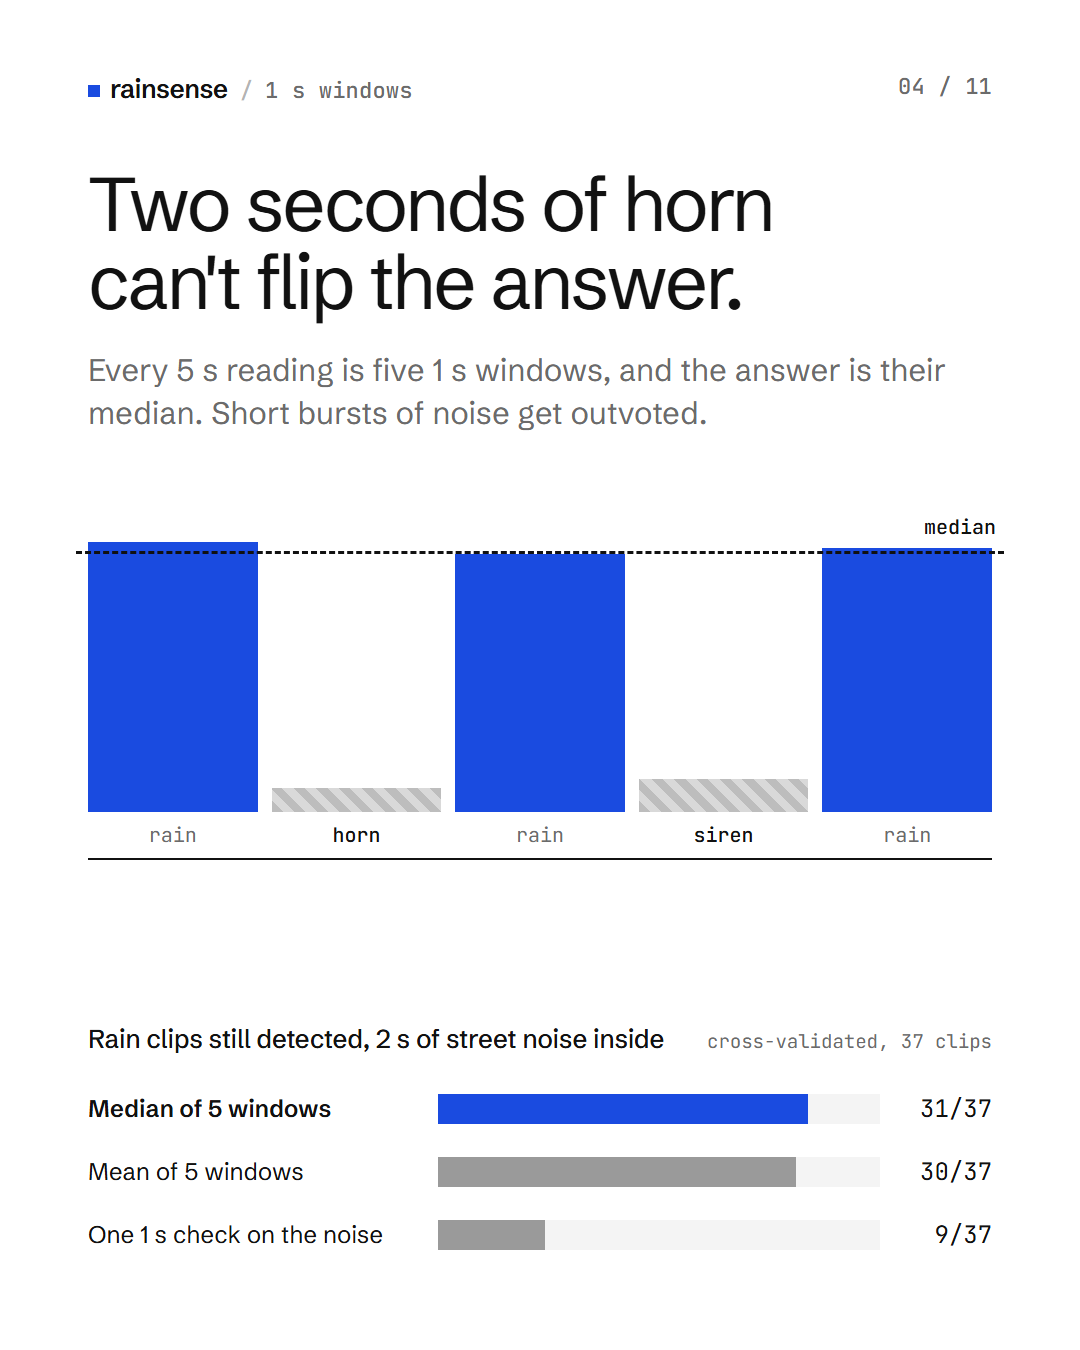
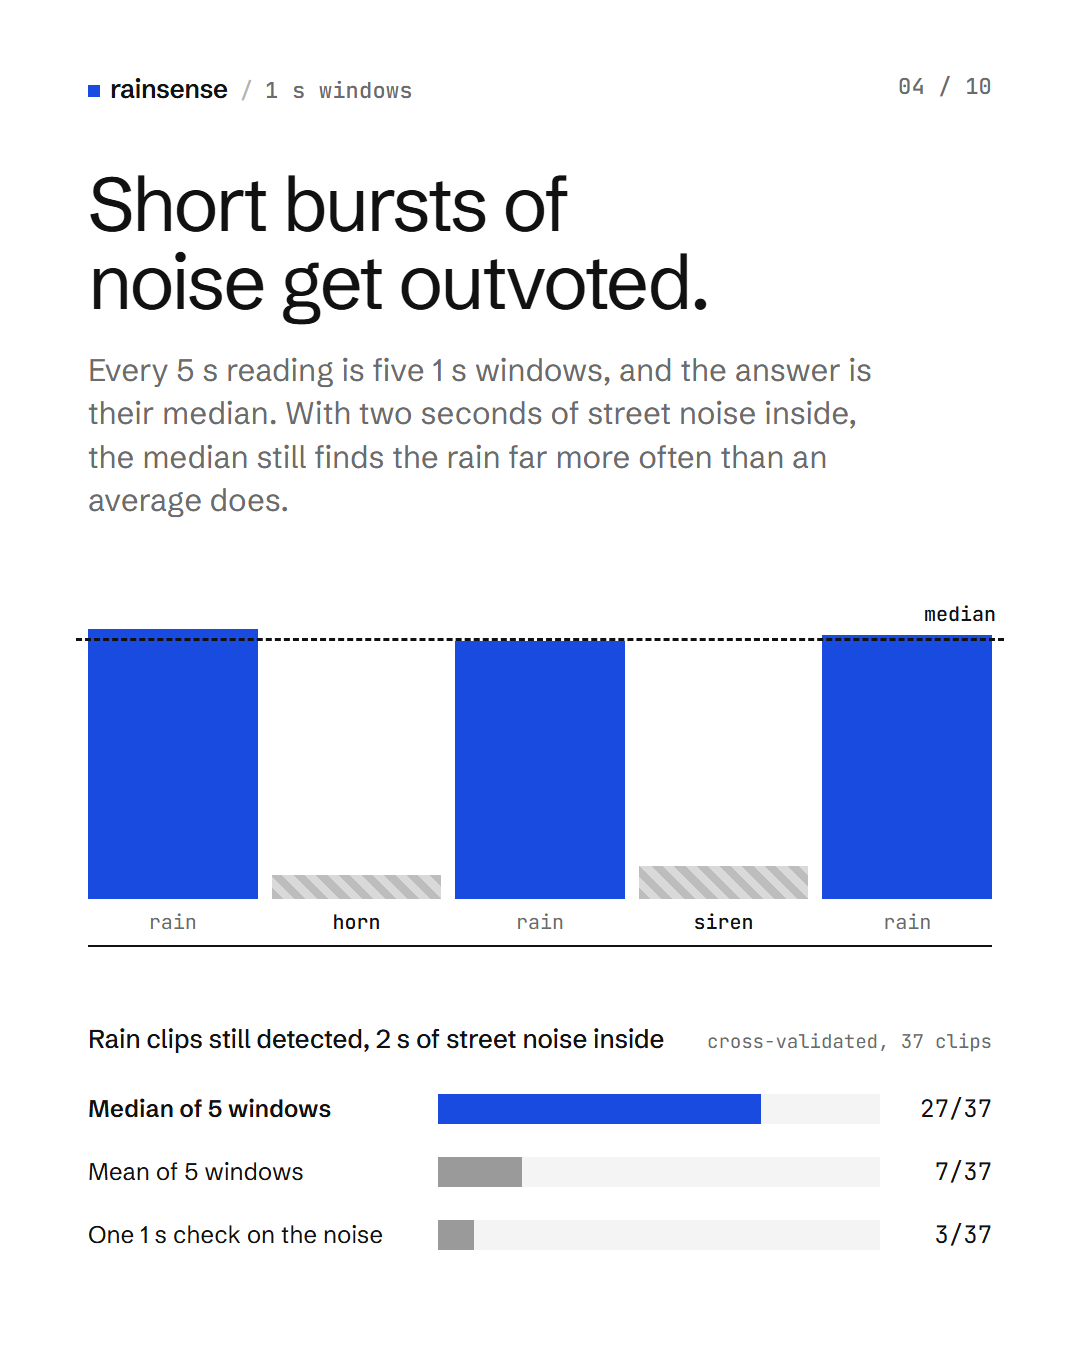
Rain threshold, package rename, README and carousel polish
- train.py picks the shipped rain threshold from cross-validated clip scores: the lowest that keeps
  false alarms at or below 10% (0.70). Stored in model.json; predict.label (Python) and pickLabel (Kotlin)
  apply the same rule. Operating points at other thresholds are in metrics.json.
- Kotlin package com.example.rainsense -> io.github.akshayjg.rainsense (demo app: .demo)
- README: CI and license badges, overview diagram, threshold, new numbers
- Carousel: 10 slides; weather slide removed, closing roadmap slide with repo link, clearer copy

diff --git a/android/rainsense/src/main/java/io/github/akshayjg/rainsense/RainClassifier.kt b/android/rainsense/src/main/java/io/github/akshayjg/rainsense/RainClassifier.kt
@@ -1,4 +1,4 @@
-package com.example.rainsense
+package io.github.akshayjg.rainsense
 
 import android.content.Context
 import org.json.JSONArray
@@ -12,6 +12,7 @@ class RainClassifier(context: Context) {
     private val scale: DoubleArray
     private val coef: Array<DoubleArray>
     private val intercept: DoubleArray
+    private val rainThreshold: Double
 
     init {
         val text = context.assets.open("model.json").bufferedReader().use { it.readText() }
@@ -22,6 +23,7 @@ class RainClassifier(context: Context) {
         intercept = o.getJSONArray("intercept").toDoubles()
         val c = o.getJSONArray("coef")
         coef = Array(c.length()) { c.getJSONArray(it).toDoubles() }
+        rainThreshold = o.optDouble("rain_threshold", 0.5)  // older models: plain argmax
     }
 
     /** Scores each 1 s window and takes the per-class median, so one loud second can't flip the result. Same as predict.predict_clip. */
@@ -33,7 +35,7 @@ class RainClassifier(context: Context) {
         val med = DoubleArray(classes.size) { c -> median(perWindow.map { it[c] }) }
         val total = med.sum()
         val probs = classes.indices.associate { classes[it] to med[it] / total }
-        return probs.maxByOrNull { it.value }!!.key to probs
+        return pickLabel(probs, rainThreshold) to probs
     }
 
     private fun softmax(f: DoubleArray): DoubleArray {
@@ -54,4 +56,11 @@ class RainClassifier(context: Context) {
     }
 
     private fun JSONArray.toDoubles() = DoubleArray(length()) { getDouble(it) }
+}
+
+/** no_rain unless P(rain) = 1 - P(no_rain) reaches [threshold], then the likeliest rain class. Same rule as predict.label. */
+internal fun pickLabel(probs: Map<String, Double>, threshold: Double): String {
+    val noRain = probs["no_rain"] ?: return probs.maxByOrNull { it.value }!!.key
+    if (1 - noRain < threshold) return "no_rain"
+    return probs.filterKeys { it != "no_rain" }.maxByOrNull { it.value }!!.key
 }

diff --git a/android/app/src/main/java/io/github/akshayjg/rainsense/demo/MainActivity.kt b/android/app/src/main/java/io/github/akshayjg/rainsense/demo/MainActivity.kt
@@ -1,4 +1,4 @@
-package com.example.rainsense.demo
+package io.github.akshayjg.rainsense.demo
 
 import android.Manifest
 import android.content.Intent
@@ -18,11 +18,11 @@ import androidx.core.content.ContextCompat
 import androidx.lifecycle.Lifecycle
 import androidx.lifecycle.lifecycleScope
 import androidx.lifecycle.repeatOnLifecycle
-import com.example.rainsense.FeatureExtractor
-import com.example.rainsense.RainResult
-import com.example.rainsense.RainSense
-import com.example.rainsense.recordPcm
-import com.example.rainsense.writeWav
+import io.github.akshayjg.rainsense.FeatureExtractor
+import io.github.akshayjg.rainsense.RainResult
+import io.github.akshayjg.rainsense.RainSense
+import io.github.akshayjg.rainsense.recordPcm
+import io.github.akshayjg.rainsense.writeWav
 import kotlinx.coroutines.Dispatchers
 import kotlinx.coroutines.launch
 import kotlinx.coroutines.withContext

diff --git a/diagram/carousel/src/slides.css b/diagram/carousel/src/slides.css
@@ -193,6 +193,7 @@ h2 { font-size: 76px; line-height: 1.02; letter-spacing: -.038em; margin-top: 64
 .next { list-style: none; counter-reset: n; margin-top: 18px; }
 .next li { counter-increment: n; font: 400 32px/1.3 var(--font-display); letter-spacing: -.015em; padding: 18px 0; border-top: 1px solid var(--p-inv-line); display: grid; grid-template-columns: 64px 1fr; }
 .next li::before { content: counter(n, decimal-leading-zero); font: 400 20px/1.9 var(--font-mono); color: var(--p-accent-on-dark); }
+.cta { font-size: 34px; font-weight: 500; color: var(--p-accent-on-dark); margin-top: auto; padding-top: 40px; }
 .foot { font-size: 18px; color: var(--p-inv-muted); margin-top: 36px; }
 
 @page { size: 1080px 1350px; margin: 0; }

diff --git a/android/app/src/main/java/io/github/akshayjg/rainsense/demo/RainService.kt b/android/app/src/main/java/io/github/akshayjg/rainsense/demo/RainService.kt
@@ -1,4 +1,4 @@
-package com.example.rainsense.demo
+package io.github.akshayjg.rainsense.demo
 
 import android.app.Notification
 import android.app.NotificationChannel
@@ -8,8 +8,8 @@ import android.content.Intent
 import android.content.pm.ServiceInfo
 import android.os.IBinder
 import androidx.core.app.ServiceCompat
-import com.example.rainsense.RainResult
-import com.example.rainsense.RainSense
+import io.github.akshayjg.rainsense.RainResult
+import io.github.akshayjg.rainsense.RainSense
 import kotlinx.coroutines.CoroutineScope
 import kotlinx.coroutines.Dispatchers
 import kotlinx.coroutines.Job

diff --git a/android/rainsense/src/test/java/io/github/akshayjg/rainsense/PickLabelTest.kt b/android/rainsense/src/test/java/io/github/akshayjg/rainsense/PickLabelTest.kt
@@ -1,0 +1,12 @@
+package io.github.akshayjg.rainsense
+
+import org.junit.Assert.assertEquals
+import org.junit.Test
+
+/** Same cases as test_label_uses_rain_threshold in tests/test_rainsense.py. */
+class PickLabelTest {
+    private val probs = mapOf("no_rain" to 0.35, "light" to 0.40, "heavy" to 0.25)  // P(rain) = 0.65
+
+    @Test fun rainWhenAboveThreshold() = assertEquals("light", pickLabel(probs, 0.6))
+    @Test fun noRainWhenBelowThreshold() = assertEquals("no_rain", pickLabel(probs, 0.7))
+}

diff --git a/android/rainsense/src/main/java/io/github/akshayjg/rainsense/Audio.kt b/android/rainsense/src/main/java/io/github/akshayjg/rainsense/Audio.kt
@@ -1,4 +1,4 @@
-package com.example.rainsense
+package io.github.akshayjg.rainsense
 
 import android.content.Context
 import android.media.AudioFormat

diff --git a/android/rainsense/src/main/java/io/github/akshayjg/rainsense/ContextGate.kt b/android/rainsense/src/main/java/io/github/akshayjg/rainsense/ContextGate.kt
@@ -1,4 +1,4 @@
-package com.example.rainsense
+package io.github.akshayjg.rainsense
 
 import android.Manifest
 import android.annotation.SuppressLint

diff --git a/android/rainsense/src/test/java/io/github/akshayjg/rainsense/ParityTest.kt b/android/rainsense/src/test/java/io/github/akshayjg/rainsense/ParityTest.kt
@@ -1,4 +1,4 @@
-package com.example.rainsense
+package io.github.akshayjg.rainsense
 
 import org.junit.Assert.assertEquals
 import org.junit.Test

diff --git a/android/rainsense/src/main/java/io/github/akshayjg/rainsense/RainSense.kt b/android/rainsense/src/main/java/io/github/akshayjg/rainsense/RainSense.kt
@@ -1,4 +1,4 @@
-package com.example.rainsense
+package io.github.akshayjg.rainsense
 
 import android.Manifest
 import android.content.Context

diff --git a/android/rainsense/src/main/java/io/github/akshayjg/rainsense/FeatureExtractor.kt b/android/rainsense/src/main/java/io/github/akshayjg/rainsense/FeatureExtractor.kt
@@ -1,4 +1,4 @@
-package com.example.rainsense
+package io.github.akshayjg.rainsense
 
 import kotlin.math.PI
 import kotlin.math.cos

diff --git a/diagram/carousel/src/build.py b/diagram/carousel/src/build.py
@@ -13,7 +13,7 @@ sys.path.insert(0, str(REPO))
 from rainsense.data import clips, load_mono_16k  # noqa: E402
 
 BRAND = "rainsense"
-N = 11
+N = 10
 metrics = json.loads((REPO / "models" / "metrics.json").read_text())
 parity = [float(x) for x in (REPO / "tests" / "fixtures" / "parity_features.txt").read_text().split()]
 DATA = SCRATCH / "data_esc50"
@@ -142,8 +142,8 @@ def hbar(label, v, n, strong=False):
 slides.append(f'''
 <section class="slide">
   {top("1 s windows", 4)}
-  <h2>Two seconds of horn can't flip the answer.</h2>
-  <p class="lede">Every 5 s reading is five 1 s windows, and the answer is their median. Short bursts of noise get outvoted.</p>
+  <h2>Short bursts of noise get outvoted.</h2>
+  <p class="lede">Every 5 s reading is five 1 s windows, and the answer is their median. With two seconds of street noise inside, the median still finds the rain far more often than an average does.</p>
   <div class="strip"><div class="median" style="bottom:{med * 300 + 46:.0f}px"><span class="mono">median</span></div>{strip}</div>
   <div class="chart">
     <div class="chart-h"><b>Rain clips still detected, 2 s of street noise inside</b><span class="mono">cross-validated, {ir["median"][1]} clips</span></div>
@@ -196,7 +196,7 @@ slides.append(f'''
 <section class="slide">
   {top("calibration", 6)}
   <h2>Its confident answers hold up.</h2>
-  <p class="lede">A fitted temperature and class offset are folded into the exported weights. Confident answers now match what happened; the unsure middle still over-calls rain.</p>
+  <p class="lede">A fitted temperature and class offset are folded into the exported weights, so readings from many phones can be averaged honestly.</p>
   <svg class="rel" viewBox="0 0 904 660">
     {ticks}
     <line x1="{X0}" y1="{Y0}" x2="{X0 + S}" y2="{Y0 - S}" class="diag"/>
@@ -218,28 +218,10 @@ slides.append(f'''
   </dl>
 </section>''')
 
-# 7 weather ---------------------------------------------------------
-slots = [("14:00", 0.4, [("14:12", "rain", True)]), ("14:15", 0.0, []), ("14:30", 0.0, [("14:31", "no rain", True)]), ("14:45", 0.0, []), ("15:00", 0.0, [("15:00", "rain", False)])]
-scols = ""
-for t, mm, recs in slots:
-    rec = "".join(f'<div class="rec{"" if ok else " bad"}"><b class="mono">{rt}</b><span>{lab}</span><em>{"agrees" if ok else "disagrees"}</em></div>' for rt, lab, ok in recs)
-    scols += f'<div class="slot"><div class="mm"><i style="height:{mm * 700:.0f}px"></i><span class="mono">{mm:.1f} mm</span></div><span class="t mono">{t}</span><div class="recs">{rec}</div></div>'
+# 7 privacy ---------------------------------------------------------
 slides.append(f'''
 <section class="slide">
-  {top("weather check, example run", 7)}
-  <h2>Checked against the sky.</h2>
-  <p class="lede">Labels and predictions are compared with Open-Meteo's 15-minute precipitation where the phone was. Free, no API key, the last 92 days.</p>
-  <pre class="code term"><span class="c">$</span> python -m rainsense.weather --lat 52.37 --lon 4.90 data/
-disagrees: rain/20261121-150000_hand.wav says rain,
-           Open-Meteo 0.0 mm / 15 min
-<span class="s">2/3 agree with Open-Meteo</span></pre>
-  <div class="slots">{scols}</div>
-</section>''')
-
-# 8 privacy ---------------------------------------------------------
-slides.append(f'''
-<section class="slide">
-  {top("privacy", 8)}
+  {top("privacy", 7)}
   <h2>Audio never leaves the phone.</h2>
   <p class="lede">RainSense returns a number and drops the sound. What the host app reports is its own choice; a rain map needs only this much.</p>
   <div class="split">
@@ -261,7 +243,7 @@ slides.append(f'''
   </div>
 </section>''')
 
-# 9 map -------------------------------------------------------------
+# 8 map ---------------------------------------------------------------
 grid = [
     [8, 12, 41, 58, 47, 15, 6, None],
     [10, 38, 66, 81, 62, 33, 9, 4],
@@ -280,46 +262,43 @@ for row in grid:
             cells += f'<div class="cell{" rain" if v >= 50 else ""}" style="--v:{v / 100:.2f}">{txt}</div>'
 slides.append(f'''
 <section class="slide">
-  {top("city map, concept", 9)}
+  {top("city map, concept", 8)}
   <h2>One rain map from many phones.</h2>
   <p class="lede">Each 500 m cell pools 10 minutes of readings. Three or more, with a weighted mean over 50%, mark it as raining.</p>
   <div class="map">{cells}</div>
   <div class="legend map-legend"><span class="scale"><i></i></span><span class="mono">0–100% of phones hear rain</span><span class="nd"><i></i><span class="mono">under 3 readings</span></span><span><b class="outline"></b><span class="mono">raining</span></span></div>
 </section>''')
 
-# 10 parity ---------------------------------------------------------
+# 9 parity ----------------------------------------------------------
 prow = [("band 94–125 Hz", parity[0]), ("band 0.9–1.2 kHz", parity[8]), ("band 6.1–8 kHz", parity[15]),
         ("spectral flatness", parity[16]), ("RMS level, dB", parity[17]), ("2–8 kHz variability, dB", parity[18])]
 trs = "".join(f'<tr><td>{n}</td><td class="mono">{v:.6f}</td><td class="mono ok">within 1e-6</td></tr>' for n, v in prow)
 slides.append(f'''
 <section class="slide">
-  {top("parity", 10)}
+  {top("parity", 9)}
   <h2>Python trains it. Kotlin runs it. Same numbers.</h2>
   <p class="lede">Both sides compute the 19 features of the same generated signal and check them against one shared file.</p>
   <table class="ptable"><thead><tr><th>feature</th><th>Python</th><th>Kotlin</th></tr></thead><tbody>{trs}</tbody></table>
   <div class="results">
-    <div class="res"><span class="tag">pytest</span><code>10 passed</code></div>
-    <div class="res"><span class="tag">ParityTest.kt</span><code>1 test, 0 failures</code></div>
+    <div class="res"><span class="tag">pytest</span><code>runs in CI on every push</code></div>
+    <div class="res"><span class="tag">ParityTest.kt</span><code>runs in CI on every push</code></div>
   </div>
 </section>''')
 
-# 11 limits ---------------------------------------------------------
-names = {"sea_waves": "Sea waves", "vacuum_cleaner": "Vacuum cleaner", "toilet_flush": "Toilet flush", "engine": "Engine", "crackling_fire": "Crackling fire"}
-fa = [(names[k], v, n) for k, v, n in metrics["false_alarm_by_category"] if k in names][:5]
-fbars = "".join(f'<div class="hb"><span class="hb-l">{k}</span><span class="hb-t"><i style="width:{v * 100:.1f}%"></i></span><span class="hb-v mono">{pct(v)}</span></div>' for k, v, n in fa)
+# 10 roadmap -------------------------------------------------------
 slides.append(f'''
 <section class="slide inv">
-  {top("limits", 11, True)}
-  <h2>What it gets wrong today.</h2>
-  <p class="lede">Steady broadband noise sounds like rain to 19 spectral features. False alarms per 1 s window, cross-validated:</p>
-  <div class="chart inv-chart">{fbars}</div>
-  <h3 class="next-h mono">Next</h3>
+  {top("roadmap", 10, True)}
+  <h2>From public recordings to real streets.</h2>
+  <p class="lede">RainSense is open source. The next steps take it into the field.</p>
   <ol class="next">
-    <li>Field recordings in a hand, a pocket and under an umbrella</li>
-    <li>YAMNet against these features on those recordings</li>
-    <li>Intensity labels from a rain gauge</li>
+    <li>Field recordings from phones in hands, pockets and under umbrellas</li>
+    <li>A pretrained audio model (YAMNet) benchmarked against these features</li>
+    <li>Rain intensity, calibrated against rain gauges</li>
+    <li>A pilot inside an app people already use outdoors</li>
   </ol>
-  <p class="foot mono">Model trained on ESC-50 (CC BY-NC 3.0). Python training, Kotlin on-device library.</p>
+  <p class="cta mono">github.com/akshayjg/RainSense</p>
+  <p class="foot mono">Python training · Kotlin on-device library · trained on ESC-50 (CC BY-NC 3.0)</p>
 </section>''')
 
 CSS = (Path(__file__).parent / "slides.css").read_text()

diff --git a/rainsense/train.py b/rainsense/train.py
@@ -60,6 +60,10 @@ def _reliability(p_rain, is_rain, w, bins=5):
 
 # loud street sounds used to interrupt held-out rain clips in the noise test
 STREET = {"car_horn", "siren", "engine", "train", "footsteps", "helicopter", "airplane"}
+# The shipped rain threshold is the lowest one that keeps cross-validated clip false alarms at or below this.
+# Many phones report per street, so a false "rain" costs more than a missed one.
+MAX_FALSE_ALARM = 0.10
+THRESHOLDS = [round(t, 2) for t in np.arange(0.5, 0.96, 0.05)]
 
 
 def _category(path):
@@ -73,6 +77,16 @@ def _calibrate(L, yi):
     w = _balanced_weights(yi)
     res = minimize(lambda x: _nll(_softmax(L / np.exp(x[0]) + x[1:]), yi, w), np.zeros(L.shape[1] + 1), method="L-BFGS-B")
     return float(np.exp(res.x[0])), res.x[1:]
+
+
+def decide(P, nr, threshold):
+    """Class index per row: no_rain unless P(rain) = 1 - P(no_rain) reaches the threshold, then the likeliest rain class.
+    Same rule as predict.label and RainClassifier.pickLabel."""
+    if nr is None:
+        return P.argmax(axis=1)
+    Q = np.array(P, dtype=float)
+    Q[:, nr] = -1
+    return np.where(1 - P[:, nr] >= threshold, Q.argmax(axis=1), nr)
 
 
 def train(data_dir, out_dir, seed=0, folds=5):
@@ -124,20 +138,34 @@ def train(data_dir, out_dir, seed=0, folds=5):
                 n = street[rng.integers(len(street))]
                 seg[j] = np.clip(n * 2 * np.sqrt(np.mean(seg[j] ** 2) / (np.mean(n ** 2) + 1e-12)), -1, 1)
             P = p_rain(seg)
-            noise["median"].append(np.median(P) >= 0.5)
-            noise["mean"].append(np.mean(P) >= 0.5)
-            noise["noise_window"].append(P[1] >= 0.5)
+            noise["median"].append(np.median(P))
+            noise["mean"].append(np.mean(P))
+            noise["noise_window"].append(P[1])
 
-    pred = P_cal.argmax(axis=1)
+    nr = classes.index("no_rain") if "no_rain" in classes else None
+    clip_true = np.array([yi[r[0]] for r in clip_rows])
+    clip_P = np.array([np.median(P_cal[r], axis=0) for r in clip_rows])
+    clip_P /= clip_P.sum(axis=1, keepdims=True)  # same as predict_clip
+    threshold, points = 0.5, []
+    if nr is not None:
+        p_clip, is_rain = 1 - clip_P[:, nr], clip_true != nr
+        points = [(t, float(np.mean(p_clip[is_rain] >= t)), float(np.mean(p_clip[~is_rain] >= t))) for t in THRESHOLDS]
+        threshold = next((t for t, _, fa in points if fa <= MAX_FALSE_ALARM), THRESHOLDS[-1])
+        print("threshold  rain caught  false alarms (5 s clips)")
+        for t, rec, fa in points:
+            print(f"  {t:.2f}{'*' if t == threshold else ' '}     {rec:.2f}        {fa:.2f}")
+    pred = decide(P_cal, nr, threshold)
     print(classification_report(yi, pred, target_names=classes, zero_division=0))
     print("confusion matrix (rows=true):\n", confusion_matrix(yi, pred))
-    clip_true = np.array([yi[r[0]] for r in clip_rows])
-    clip_pred = np.array([np.median(P_cal[r], axis=0).argmax() for r in clip_rows])
+    clip_pred = decide(clip_P, nr, threshold)
     ok, clip_fold = clip_true == clip_pred, np.array(clip_fold)
     w = _balanced_weights(yi)
     acc = float((pred == yi).mean())
     metrics = {
-        "evaluation": f"{folds}-fold cross-validation grouped by source file; calibration fitted inside each training fold",
+        "evaluation": f"{folds}-fold cross-validation grouped by source file; calibration fitted inside each training fold; "
+                      f"rain threshold chosen on the cross-validated clip scores",
+        "rain_threshold": threshold,
+        "operating_points": [{"threshold": t, "rain_caught": rec, "false_alarms": fa} for t, rec, fa in points],
         "windows": len(C), "files": int(len(set(groups))), "clips": len(clip_rows), "classes": classes,
         "window_accuracy": acc,
         "window_balanced_accuracy": float(balanced_accuracy_score(yi, pred)),
@@ -155,7 +183,7 @@ def train(data_dir, out_dir, seed=0, folds=5):
             ((c, float(np.mean(pred[m & (cats == c)] != nr)), int(np.sum(m & (cats == c)))) for c in np.unique(cats[m])),
             key=lambda t: -t[1])
     if noise["median"]:
-        metrics["street_noise_2s_detected"] = {k: [float(np.mean(v)), len(v)] for k, v in noise.items()}
+        metrics["street_noise_2s_detected"] = {k: [float(np.mean(np.array(v) >= threshold)), len(v)] for k, v in noise.items()}
 
     # shipped model: fit on everything; calibration fitted on the pooled out-of-fold logits
     T, bias = _calibrate(L_raw, yi)
@@ -165,7 +193,10 @@ def train(data_dir, out_dir, seed=0, folds=5):
     scaler, clf = fit(np.arange(len(C)))
     out = Path(out_dir)
     out.mkdir(parents=True, exist_ok=True)
-    (out / "model.json").write_text(json.dumps(export(scaler, clf, T, bias)))
+    shipped = export(scaler, clf, T, bias)
+    if nr is not None:
+        shipped["rain_threshold"] = threshold
+    (out / "model.json").write_text(json.dumps(shipped))
     (out / "metrics.json").write_text(json.dumps(metrics, indent=2))
     print(f"saved {out / 'model.json'} and metrics.json")
     return acc
